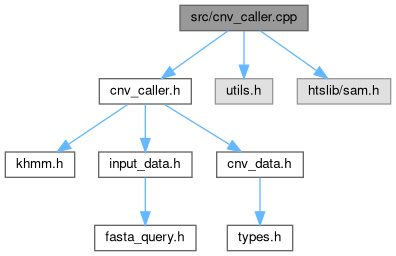
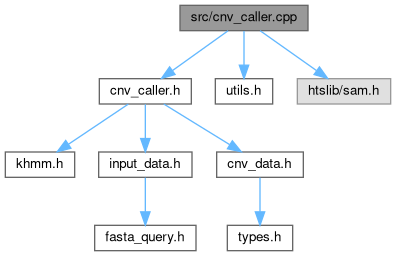
Update docs

Changed region(s): [[0.5455, 0.2812, 0.697, 0.4375]]

diff --git a/files.html b/files.html
@@ -108,19 +108,20 @@ $(document).ready(function(){initNavTree('files.html',''); initResizable(); });
 <tr id="row_1_8_" class="even"><td class="entry"><span style="width:32px;display:inline-block;">&#160;</span><a href="sv__data_8h_source.html"><span class="icondoc"></span></a><a class="el" href="sv__data_8h.html" target="_self">sv_data.h</a></td><td class="desc"></td></tr>
 <tr id="row_1_9_" class="odd"><td class="entry"><span style="width:32px;display:inline-block;">&#160;</span><a href="swig__interface_8h_source.html"><span class="icondoc"></span></a><a class="el" href="swig__interface_8h.html" target="_self">swig_interface.h</a></td><td class="desc"></td></tr>
 <tr id="row_1_10_" class="even"><td class="entry"><span style="width:32px;display:inline-block;">&#160;</span><a href="types_8h_source.html"><span class="icondoc"></span></a><a class="el" href="types_8h.html" target="_self">types.h</a></td><td class="desc"></td></tr>
-<tr id="row_2_" class="odd"><td class="entry"><span style="width:0px;display:inline-block;">&#160;</span><span id="arr_2_" class="arrow" onclick="toggleFolder('2_')">&#9660;</span><span id="img_2_" class="iconfopen" onclick="toggleFolder('2_')">&#160;</span><a class="el" href="dir_68267d1309a1af8e8297ef4c3efbcdba.html" target="_self">src</a></td><td class="desc"></td></tr>
-<tr id="row_2_0_" class="even"><td class="entry"><span style="width:32px;display:inline-block;">&#160;</span><span class="icondoc"></span><a class="el" href="cnv__caller_8cpp.html" target="_self">cnv_caller.cpp</a></td><td class="desc"></td></tr>
-<tr id="row_2_1_" class="odd"><td class="entry"><span style="width:32px;display:inline-block;">&#160;</span><span class="icondoc"></span><a class="el" href="cnv__data_8cpp.html" target="_self">cnv_data.cpp</a></td><td class="desc"></td></tr>
-<tr id="row_2_2_" class="even"><td class="entry"><span style="width:32px;display:inline-block;">&#160;</span><span class="icondoc"></span><a class="el" href="contextsv_8cpp.html" target="_self">contextsv.cpp</a></td><td class="desc"></td></tr>
-<tr id="row_2_3_" class="odd"><td class="entry"><span style="width:32px;display:inline-block;">&#160;</span><span class="icondoc"></span><a class="el" href="fasta__query_8cpp.html" target="_self">fasta_query.cpp</a></td><td class="desc"></td></tr>
-<tr id="row_2_4_" class="even"><td class="entry"><span style="width:32px;display:inline-block;">&#160;</span><span class="icondoc"></span><a class="el" href="input__data_8cpp.html" target="_self">input_data.cpp</a></td><td class="desc"></td></tr>
-<tr id="row_2_5_" class="odd"><td class="entry"><span style="width:32px;display:inline-block;">&#160;</span><span class="icondoc"></span><a class="el" href="kc_8cpp.html" target="_self">kc.cpp</a></td><td class="desc"></td></tr>
-<tr id="row_2_6_" class="even"><td class="entry"><span style="width:32px;display:inline-block;">&#160;</span><span class="icondoc"></span><a class="el" href="khmm_8cpp.html" target="_self">khmm.cpp</a></td><td class="desc"></td></tr>
-<tr id="row_2_7_" class="odd"><td class="entry"><span style="width:32px;display:inline-block;">&#160;</span><span class="icondoc"></span><a class="el" href="sv__caller_8cpp.html" target="_self">sv_caller.cpp</a></td><td class="desc"></td></tr>
-<tr id="row_2_8_" class="even"><td class="entry"><span style="width:32px;display:inline-block;">&#160;</span><span class="icondoc"></span><a class="el" href="sv__data_8cpp.html" target="_self">sv_data.cpp</a></td><td class="desc"></td></tr>
-<tr id="row_2_9_" class="odd"><td class="entry"><span style="width:32px;display:inline-block;">&#160;</span><span class="icondoc"></span><a class="el" href="swig__interface_8cpp.html" target="_self">swig_interface.cpp</a></td><td class="desc"></td></tr>
-<tr id="row_2_10_" class="even"><td class="entry"><span style="width:32px;display:inline-block;">&#160;</span><span class="icondoc"></span><a class="el" href="swig__wrapper_8cpp.html" target="_self">swig_wrapper.cpp</a></td><td class="desc"></td></tr>
-<tr id="row_2_11_" class="odd"><td class="entry"><span style="width:32px;display:inline-block;">&#160;</span><span class="icondoc"></span><a class="el" href="utils_8cpp.html" target="_self">utils.cpp</a></td><td class="desc"></td></tr>
+<tr id="row_1_11_" class="odd"><td class="entry"><span style="width:32px;display:inline-block;">&#160;</span><a href="utils_8h_source.html"><span class="icondoc"></span></a><a class="el" href="utils_8h.html" target="_self">utils.h</a></td><td class="desc"></td></tr>
+<tr id="row_2_" class="even"><td class="entry"><span style="width:0px;display:inline-block;">&#160;</span><span id="arr_2_" class="arrow" onclick="toggleFolder('2_')">&#9660;</span><span id="img_2_" class="iconfopen" onclick="toggleFolder('2_')">&#160;</span><a class="el" href="dir_68267d1309a1af8e8297ef4c3efbcdba.html" target="_self">src</a></td><td class="desc"></td></tr>
+<tr id="row_2_0_" class="odd"><td class="entry"><span style="width:32px;display:inline-block;">&#160;</span><span class="icondoc"></span><a class="el" href="cnv__caller_8cpp.html" target="_self">cnv_caller.cpp</a></td><td class="desc"></td></tr>
+<tr id="row_2_1_" class="even"><td class="entry"><span style="width:32px;display:inline-block;">&#160;</span><span class="icondoc"></span><a class="el" href="cnv__data_8cpp.html" target="_self">cnv_data.cpp</a></td><td class="desc"></td></tr>
+<tr id="row_2_2_" class="odd"><td class="entry"><span style="width:32px;display:inline-block;">&#160;</span><span class="icondoc"></span><a class="el" href="contextsv_8cpp.html" target="_self">contextsv.cpp</a></td><td class="desc"></td></tr>
+<tr id="row_2_3_" class="even"><td class="entry"><span style="width:32px;display:inline-block;">&#160;</span><span class="icondoc"></span><a class="el" href="fasta__query_8cpp.html" target="_self">fasta_query.cpp</a></td><td class="desc"></td></tr>
+<tr id="row_2_4_" class="odd"><td class="entry"><span style="width:32px;display:inline-block;">&#160;</span><span class="icondoc"></span><a class="el" href="input__data_8cpp.html" target="_self">input_data.cpp</a></td><td class="desc"></td></tr>
+<tr id="row_2_5_" class="even"><td class="entry"><span style="width:32px;display:inline-block;">&#160;</span><span class="icondoc"></span><a class="el" href="kc_8cpp.html" target="_self">kc.cpp</a></td><td class="desc"></td></tr>
+<tr id="row_2_6_" class="odd"><td class="entry"><span style="width:32px;display:inline-block;">&#160;</span><span class="icondoc"></span><a class="el" href="khmm_8cpp.html" target="_self">khmm.cpp</a></td><td class="desc"></td></tr>
+<tr id="row_2_7_" class="even"><td class="entry"><span style="width:32px;display:inline-block;">&#160;</span><span class="icondoc"></span><a class="el" href="sv__caller_8cpp.html" target="_self">sv_caller.cpp</a></td><td class="desc"></td></tr>
+<tr id="row_2_8_" class="odd"><td class="entry"><span style="width:32px;display:inline-block;">&#160;</span><span class="icondoc"></span><a class="el" href="sv__data_8cpp.html" target="_self">sv_data.cpp</a></td><td class="desc"></td></tr>
+<tr id="row_2_9_" class="even"><td class="entry"><span style="width:32px;display:inline-block;">&#160;</span><span class="icondoc"></span><a class="el" href="swig__interface_8cpp.html" target="_self">swig_interface.cpp</a></td><td class="desc"></td></tr>
+<tr id="row_2_10_" class="odd"><td class="entry"><span style="width:32px;display:inline-block;">&#160;</span><span class="icondoc"></span><a class="el" href="swig__wrapper_8cpp.html" target="_self">swig_wrapper.cpp</a></td><td class="desc"></td></tr>
+<tr id="row_2_11_" class="even"><td class="entry"><span style="width:32px;display:inline-block;">&#160;</span><span class="icondoc"></span><a class="el" href="utils_8cpp.html" target="_self">utils.cpp</a></td><td class="desc"></td></tr>
 </table>
 </div><!-- directory -->
 </div><!-- contents -->

diff --git a/dir_000002_000001.html b/dir_000002_000001.html
@@ -90,7 +90,7 @@ $(document).ready(function(){initNavTree('dir_68267d1309a1af8e8297ef4c3efbcdba.h
 </div>
 
 <div class="contents">
-<h3>src &rarr; include Relation</h3><table class="dirtab"><tr class="dirtab"><th class="dirtab">File in src</th><th class="dirtab">Includes file in include</th></tr><tr class="dirtab"><td class="dirtab"><a class="el" href="cnv__caller_8cpp.html">cnv_caller.cpp</a></td><td class="dirtab"><a class="el" href="cnv__caller_8h.html">cnv_caller.h</a></td></tr><tr class="dirtab"><td class="dirtab"><a class="el" href="cnv__data_8cpp.html">cnv_data.cpp</a></td><td class="dirtab"><a class="el" href="cnv__data_8h.html">cnv_data.h</a></td></tr><tr class="dirtab"><td class="dirtab"><a class="el" href="contextsv_8cpp.html">contextsv.cpp</a></td><td class="dirtab"><a class="el" href="cnv__caller_8h.html">cnv_caller.h</a></td></tr><tr class="dirtab"><td class="dirtab"><a class="el" href="contextsv_8cpp.html">contextsv.cpp</a></td><td class="dirtab"><a class="el" href="contextsv_8h.html">contextsv.h</a></td></tr><tr class="dirtab"><td class="dirtab"><a class="el" href="contextsv_8cpp.html">contextsv.cpp</a></td><td class="dirtab"><a class="el" href="sv__caller_8h.html">sv_caller.h</a></td></tr><tr class="dirtab"><td class="dirtab"><a class="el" href="fasta__query_8cpp.html">fasta_query.cpp</a></td><td class="dirtab"><a class="el" href="fasta__query_8h.html">fasta_query.h</a></td></tr><tr class="dirtab"><td class="dirtab"><a class="el" href="input__data_8cpp.html">input_data.cpp</a></td><td class="dirtab"><a class="el" href="input__data_8h.html">input_data.h</a></td></tr><tr class="dirtab"><td class="dirtab"><a class="el" href="kc_8cpp.html">kc.cpp</a></td><td class="dirtab"><a class="el" href="kc_8h.html">kc.h</a></td></tr><tr class="dirtab"><td class="dirtab"><a class="el" href="khmm_8cpp.html">khmm.cpp</a></td><td class="dirtab"><a class="el" href="kc_8h.html">kc.h</a></td></tr><tr class="dirtab"><td class="dirtab"><a class="el" href="khmm_8cpp.html">khmm.cpp</a></td><td class="dirtab"><a class="el" href="khmm_8h.html">khmm.h</a></td></tr><tr class="dirtab"><td class="dirtab"><a class="el" href="sv__caller_8cpp.html">sv_caller.cpp</a></td><td class="dirtab"><a class="el" href="sv__caller_8h.html">sv_caller.h</a></td></tr><tr class="dirtab"><td class="dirtab"><a class="el" href="sv__data_8cpp.html">sv_data.cpp</a></td><td class="dirtab"><a class="el" href="sv__data_8h.html">sv_data.h</a></td></tr><tr class="dirtab"><td class="dirtab"><a class="el" href="swig__interface_8cpp.html">swig_interface.cpp</a></td><td class="dirtab"><a class="el" href="contextsv_8h.html">contextsv.h</a></td></tr><tr class="dirtab"><td class="dirtab"><a class="el" href="swig__interface_8cpp.html">swig_interface.cpp</a></td><td class="dirtab"><a class="el" href="swig__interface_8h.html">swig_interface.h</a></td></tr><tr class="dirtab"><td class="dirtab"><a class="el" href="swig__wrapper_8cpp.html">swig_wrapper.cpp</a></td><td class="dirtab"><a class="el" href="swig__interface_8h.html">swig_interface.h</a></td></tr></table></div><!-- contents -->
+<h3>src &rarr; include Relation</h3><table class="dirtab"><tr class="dirtab"><th class="dirtab">File in src</th><th class="dirtab">Includes file in include</th></tr><tr class="dirtab"><td class="dirtab"><a class="el" href="cnv__caller_8cpp.html">cnv_caller.cpp</a></td><td class="dirtab"><a class="el" href="cnv__caller_8h.html">cnv_caller.h</a></td></tr><tr class="dirtab"><td class="dirtab"><a class="el" href="cnv__caller_8cpp.html">cnv_caller.cpp</a></td><td class="dirtab"><a class="el" href="utils_8h.html">utils.h</a></td></tr><tr class="dirtab"><td class="dirtab"><a class="el" href="cnv__data_8cpp.html">cnv_data.cpp</a></td><td class="dirtab"><a class="el" href="cnv__data_8h.html">cnv_data.h</a></td></tr><tr class="dirtab"><td class="dirtab"><a class="el" href="contextsv_8cpp.html">contextsv.cpp</a></td><td class="dirtab"><a class="el" href="cnv__caller_8h.html">cnv_caller.h</a></td></tr><tr class="dirtab"><td class="dirtab"><a class="el" href="contextsv_8cpp.html">contextsv.cpp</a></td><td class="dirtab"><a class="el" href="contextsv_8h.html">contextsv.h</a></td></tr><tr class="dirtab"><td class="dirtab"><a class="el" href="contextsv_8cpp.html">contextsv.cpp</a></td><td class="dirtab"><a class="el" href="sv__caller_8h.html">sv_caller.h</a></td></tr><tr class="dirtab"><td class="dirtab"><a class="el" href="fasta__query_8cpp.html">fasta_query.cpp</a></td><td class="dirtab"><a class="el" href="fasta__query_8h.html">fasta_query.h</a></td></tr><tr class="dirtab"><td class="dirtab"><a class="el" href="input__data_8cpp.html">input_data.cpp</a></td><td class="dirtab"><a class="el" href="input__data_8h.html">input_data.h</a></td></tr><tr class="dirtab"><td class="dirtab"><a class="el" href="kc_8cpp.html">kc.cpp</a></td><td class="dirtab"><a class="el" href="kc_8h.html">kc.h</a></td></tr><tr class="dirtab"><td class="dirtab"><a class="el" href="khmm_8cpp.html">khmm.cpp</a></td><td class="dirtab"><a class="el" href="kc_8h.html">kc.h</a></td></tr><tr class="dirtab"><td class="dirtab"><a class="el" href="khmm_8cpp.html">khmm.cpp</a></td><td class="dirtab"><a class="el" href="khmm_8h.html">khmm.h</a></td></tr><tr class="dirtab"><td class="dirtab"><a class="el" href="sv__caller_8cpp.html">sv_caller.cpp</a></td><td class="dirtab"><a class="el" href="sv__caller_8h.html">sv_caller.h</a></td></tr><tr class="dirtab"><td class="dirtab"><a class="el" href="sv__data_8cpp.html">sv_data.cpp</a></td><td class="dirtab"><a class="el" href="sv__data_8h.html">sv_data.h</a></td></tr><tr class="dirtab"><td class="dirtab"><a class="el" href="swig__interface_8cpp.html">swig_interface.cpp</a></td><td class="dirtab"><a class="el" href="contextsv_8h.html">contextsv.h</a></td></tr><tr class="dirtab"><td class="dirtab"><a class="el" href="swig__interface_8cpp.html">swig_interface.cpp</a></td><td class="dirtab"><a class="el" href="swig__interface_8h.html">swig_interface.h</a></td></tr><tr class="dirtab"><td class="dirtab"><a class="el" href="swig__wrapper_8cpp.html">swig_wrapper.cpp</a></td><td class="dirtab"><a class="el" href="swig__interface_8h.html">swig_interface.h</a></td></tr><tr class="dirtab"><td class="dirtab"><a class="el" href="utils_8cpp.html">utils.cpp</a></td><td class="dirtab"><a class="el" href="utils_8h.html">utils.h</a></td></tr></table></div><!-- contents -->
 </div><!-- doc-content -->
 <!-- start footer part -->
 <div id="nav-path" class="navpath"><!-- id is needed for treeview function! -->

diff --git a/search/all_e.js b/search/all_e.js
@@ -12,11 +12,11 @@ var searchData=
   ['prev_9',['prev',['../structswig__cast__info.html#afc685bcf38a5a06c6601775138c5999c',1,'swig_cast_info']]],
   ['print_5fmatrix_10',['print_matrix',['../kc_8h.html#ab63511006258ab28c09d3f4825e1a863',1,'print_matrix(double **A, int m, int n):&#160;kc.cpp'],['../kc_8cpp.html#ab63511006258ab28c09d3f4825e1a863',1,'print_matrix(double **A, int m, int n):&#160;kc.cpp']]],
   ['print_5fmatrixi_11',['print_matrixi',['../kc_8h.html#ad4f0e377e6998c4aeb731b82e3c55fb4',1,'print_matrixi(int **A, int m, int n):&#160;kc.cpp'],['../kc_8cpp.html#ad4f0e377e6998c4aeb731b82e3c55fb4',1,'print_matrixi(int **A, int m, int n):&#160;kc.cpp']]],
-  ['print_5fvector_12',['print_vector',['../kc_8h.html#a05e1b2a77c22ae4e595c1c9078f186b2',1,'print_vector(double *array, int n):&#160;kc.cpp'],['../kc_8cpp.html#a05e1b2a77c22ae4e595c1c9078f186b2',1,'print_vector(double *array, int n):&#160;kc.cpp']]],
-  ['print_5fvectori_13',['print_vectori',['../kc_8h.html#a8a8ffc38946e016056d176c4a5bc672c',1,'print_vectori(int *array, int n):&#160;kc.cpp'],['../kc_8cpp.html#a8a8ffc38946e016056d176c4a5bc672c',1,'print_vectori(int *array, int n):&#160;kc.cpp']]],
+  ['print_5fvector_12',['print_vector',['../kc_8cpp.html#a05e1b2a77c22ae4e595c1c9078f186b2',1,'print_vector(double *array, int n):&#160;kc.cpp'],['../kc_8h.html#a05e1b2a77c22ae4e595c1c9078f186b2',1,'print_vector(double *array, int n):&#160;kc.cpp']]],
+  ['print_5fvectori_13',['print_vectori',['../kc_8cpp.html#a8a8ffc38946e016056d176c4a5bc672c',1,'print_vectori(int *array, int n):&#160;kc.cpp'],['../kc_8h.html#a8a8ffc38946e016056d176c4a5bc672c',1,'print_vectori(int *array, int n):&#160;kc.cpp']]],
   ['printchmm_14',['PrintCHMM',['../khmm_8h.html#ab48b68300b34a8e1875bd0c89a81175b',1,'khmm.h']]],
-  ['printprogress_15',['printProgress',['../utils_8cpp.html#a94bd78faf212464ede8144a4be0e8cf8',1,'utils.cpp']]],
-  ['probks_16',['probks',['../kc_8cpp.html#a143f0d120ce98a745cf55be12076967a',1,'probks(double alam):&#160;kc.cpp'],['../kc_8h.html#a143f0d120ce98a745cf55be12076967a',1,'probks(double alam):&#160;kc.cpp']]],
+  ['printprogress_15',['printprogress',['../utils_8h.html#a94bd78faf212464ede8144a4be0e8cf8',1,'printProgress(int progress, int total):&#160;utils.cpp'],['../utils_8cpp.html#a94bd78faf212464ede8144a4be0e8cf8',1,'printProgress(int progress, int total):&#160;utils.cpp']]],
+  ['probks_16',['probks',['../kc_8h.html#a143f0d120ce98a745cf55be12076967a',1,'probks(double alam):&#160;kc.cpp'],['../kc_8cpp.html#a143f0d120ce98a745cf55be12076967a',1,'probks(double alam):&#160;kc.cpp']]],
   ['project_20overview_17',['Project Overview',['../md_docs_2project-overview.html',1,'']]],
   ['project_20structure_18',['Project structure',['../md_docs_2project-overview.html#autotoc_md4',1,'']]],
   ['project_2doverview_2emd_19',['project-overview.md',['../project-overview_8md.html',1,'']]],

diff --git a/utils_8h_source.html b/utils_8h_source.html
@@ -103,12 +103,11 @@ $(document).ready(function(){initNavTree('utils_8h_source.html',''); initResizab
 <div class="line"><a id="l00003" name="l00003"></a><span class="lineno">    3</span><span class="preprocessor">#ifndef UTILS_H</span></div>
 <div class="line"><a id="l00004" name="l00004"></a><span class="lineno">    4</span><span class="preprocessor">#define UTILS_H</span></div>
 <div class="line"><a id="l00005" name="l00005"></a><span class="lineno">    5</span> </div>
-<div class="line"><a id="l00006" name="l00006"></a><span class="lineno">    6</span><span class="preprocessor">#include &lt;string&gt;</span></div>
-<div class="line"><a id="l00007" name="l00007"></a><span class="lineno">    7</span> </div>
-<div class="line"><a id="l00008" name="l00008"></a><span class="lineno">    8</span><span class="comment">// Print the progress of a task</span></div>
-<div class="line"><a id="l00009" name="l00009"></a><span class="lineno">    9</span><span class="keywordtype">void</span> <a class="code hl_function" href="utils_8h.html#a94bd78faf212464ede8144a4be0e8cf8">printProgress</a>(<span class="keywordtype">int</span> progress, <span class="keywordtype">int</span> total);</div>
-<div class="line"><a id="l00010" name="l00010"></a><span class="lineno">   10</span> </div>
-<div class="line"><a id="l00011" name="l00011"></a><span class="lineno">   11</span><span class="preprocessor">#endif </span><span class="comment">// UTILS_H</span></div>
+<div class="line"><a id="l00006" name="l00006"></a><span class="lineno">    6</span> </div>
+<div class="line"><a id="l00007" name="l00007"></a><span class="lineno">    7</span><span class="comment">// Print the progress of a task</span></div>
+<div class="line"><a id="l00008" name="l00008"></a><span class="lineno">    8</span><span class="keywordtype">void</span> <a class="code hl_function" href="utils_8h.html#a94bd78faf212464ede8144a4be0e8cf8">printProgress</a>(<span class="keywordtype">int</span> progress, <span class="keywordtype">int</span> total);</div>
+<div class="line"><a id="l00009" name="l00009"></a><span class="lineno">    9</span> </div>
+<div class="line"><a id="l00010" name="l00010"></a><span class="lineno">   10</span><span class="preprocessor">#endif </span><span class="comment">// UTILS_H</span></div>
 <div class="ttc" id="autils_8h_html_a94bd78faf212464ede8144a4be0e8cf8"><div class="ttname"><a href="utils_8h.html#a94bd78faf212464ede8144a4be0e8cf8">printProgress</a></div><div class="ttdeci">void printProgress(int progress, int total)</div><div class="ttdef"><b>Definition</b> utils.cpp:10</div></div>
 </div><!-- fragment --></div><!-- contents -->
 </div><!-- doc-content -->

diff --git a/navtreeindex0.js b/navtreeindex0.js
@@ -83,22 +83,22 @@ var NAVTREEINDEX0 =
 "classes.html":[2,1],
 "classswig_1_1_swig_ptr___py_object.html":[1,0,0,0],
 "classswig_1_1_swig_ptr___py_object.html":[2,0,0,0],
-"classswig_1_1_swig_ptr___py_object.html#a0c495ce3409b105433b4347ce18fa964":[1,0,0,0,6],
 "classswig_1_1_swig_ptr___py_object.html#a0c495ce3409b105433b4347ce18fa964":[2,0,0,0,6],
+"classswig_1_1_swig_ptr___py_object.html#a0c495ce3409b105433b4347ce18fa964":[1,0,0,0,6],
 "classswig_1_1_swig_ptr___py_object.html#a3f2d2edd8a4eda4bf8a1243e50aa3849":[1,0,0,0,3],
 "classswig_1_1_swig_ptr___py_object.html#a3f2d2edd8a4eda4bf8a1243e50aa3849":[2,0,0,0,3],
 "classswig_1_1_swig_ptr___py_object.html#a41bd12c5ef663af39a56236918f2002e":[1,0,0,0,5],
 "classswig_1_1_swig_ptr___py_object.html#a41bd12c5ef663af39a56236918f2002e":[2,0,0,0,5],
 "classswig_1_1_swig_ptr___py_object.html#a4282f20207f8cd22c9b079203c832a04":[1,0,0,0,1],
 "classswig_1_1_swig_ptr___py_object.html#a4282f20207f8cd22c9b079203c832a04":[2,0,0,0,1],
-"classswig_1_1_swig_ptr___py_object.html#a4503d58d577d209f5e1fa67026852505":[2,0,0,0,2],
 "classswig_1_1_swig_ptr___py_object.html#a4503d58d577d209f5e1fa67026852505":[1,0,0,0,2],
-"classswig_1_1_swig_ptr___py_object.html#a488cefbaa1b44892dca63570d463f926":[2,0,0,0,4],
+"classswig_1_1_swig_ptr___py_object.html#a4503d58d577d209f5e1fa67026852505":[2,0,0,0,2],
 "classswig_1_1_swig_ptr___py_object.html#a488cefbaa1b44892dca63570d463f926":[1,0,0,0,4],
-"classswig_1_1_swig_ptr___py_object.html#abf8e6dbea1c465582b210f732034b3ab":[2,0,0,0,0],
+"classswig_1_1_swig_ptr___py_object.html#a488cefbaa1b44892dca63570d463f926":[2,0,0,0,4],
 "classswig_1_1_swig_ptr___py_object.html#abf8e6dbea1c465582b210f732034b3ab":[1,0,0,0,0],
-"classswig_1_1_swig_ptr___py_object.html#ae617c5726496db423cd19688e3264618":[2,0,0,0,7],
+"classswig_1_1_swig_ptr___py_object.html#abf8e6dbea1c465582b210f732034b3ab":[2,0,0,0,0],
 "classswig_1_1_swig_ptr___py_object.html#ae617c5726496db423cd19688e3264618":[1,0,0,0,7],
+"classswig_1_1_swig_ptr___py_object.html#ae617c5726496db423cd19688e3264618":[2,0,0,0,7],
 "cnv__caller_8cpp.html":[3,0,2,0],
 "cnv__caller_8h.html":[3,0,1,0],
 "cnv__caller_8h_source.html":[3,0,1,0],
@@ -127,8 +127,8 @@ var NAVTREEINDEX0 =
 "globals_defs.html":[3,1,3],
 "globals_e.html":[3,1,0,5],
 "globals_f.html":[3,1,0,6],
-"globals_func.html":[3,1,1],
 "globals_func.html":[3,1,1,0],
+"globals_func.html":[3,1,1],
 "globals_func_a.html":[3,1,1,1],
 "globals_func_b.html":[3,1,1,2],
 "globals_func_c.html":[3,1,1,3],

diff --git a/utils_8cpp.html b/utils_8cpp.html
@@ -95,24 +95,15 @@ $(document).ready(function(){initNavTree('utils_8cpp.html',''); initResizable();
   <div class="headertitle"><div class="title">utils.cpp File Reference</div></div>
 </div><!--header-->
 <div class="contents">
-<div class="textblock"><code>#include &quot;utils.h&quot;</code><br />
-<code>#include &lt;stdio.h&gt;</code><br />
-<code>#include &lt;string.h&gt;</code><br />
-<code>#include &lt;iostream&gt;</code><br />
+<div class="textblock"><code>#include &quot;<a class="el" href="utils_8h_source.html">utils.h</a>&quot;</code><br />
 </div><div class="textblock"><div class="dynheader">
 Include dependency graph for utils.cpp:</div>
 <div class="dyncontent">
 <div class="center"><img src="utils_8cpp__incl.png" border="0" usemap="#asrc_2utils_8cpp" alt=""/></div>
 <map name="asrc_2utils_8cpp" id="asrc_2utils_8cpp">
-<area shape="rect" title=" " alt="" coords="115,5,209,31"/>
-<area shape="rect" title=" " alt="" coords="5,79,63,104"/>
-<area shape="poly" title=" " alt="" coords="143,33,68,74,66,69,140,28"/>
-<area shape="rect" title=" " alt="" coords="87,79,149,104"/>
-<area shape="poly" title=" " alt="" coords="157,32,135,68,130,66,152,30"/>
-<area shape="rect" title=" " alt="" coords="173,79,239,104"/>
-<area shape="poly" title=" " alt="" coords="172,30,194,66,189,68,167,32"/>
-<area shape="rect" title=" " alt="" coords="263,79,335,104"/>
-<area shape="poly" title=" " alt="" coords="185,28,266,70,264,75,183,33"/>
+<area shape="rect" title=" " alt="" coords="5,5,99,31"/>
+<area shape="rect" href="utils_8h.html" title=" " alt="" coords="23,79,81,104"/>
+<area shape="poly" title=" " alt="" coords="55,31,55,65,49,65,49,31"/>
 </map>
 </div>
 </div><table class="memberdecls">

diff --git a/search/functions_e.js b/search/functions_e.js
@@ -12,7 +12,7 @@ var searchData=
   ['print_5fvector_9',['print_vector',['../kc_8h.html#a05e1b2a77c22ae4e595c1c9078f186b2',1,'print_vector(double *array, int n):&#160;kc.cpp'],['../kc_8cpp.html#a05e1b2a77c22ae4e595c1c9078f186b2',1,'print_vector(double *array, int n):&#160;kc.cpp']]],
   ['print_5fvectori_10',['print_vectori',['../kc_8h.html#a8a8ffc38946e016056d176c4a5bc672c',1,'print_vectori(int *array, int n):&#160;kc.cpp'],['../kc_8cpp.html#a8a8ffc38946e016056d176c4a5bc672c',1,'print_vectori(int *array, int n):&#160;kc.cpp']]],
   ['printchmm_11',['PrintCHMM',['../khmm_8h.html#ab48b68300b34a8e1875bd0c89a81175b',1,'khmm.h']]],
-  ['printprogress_12',['printProgress',['../utils_8cpp.html#a94bd78faf212464ede8144a4be0e8cf8',1,'utils.cpp']]],
+  ['printprogress_12',['printprogress',['../utils_8h.html#a94bd78faf212464ede8144a4be0e8cf8',1,'printProgress(int progress, int total):&#160;utils.cpp'],['../utils_8cpp.html#a94bd78faf212464ede8144a4be0e8cf8',1,'printProgress(int progress, int total):&#160;utils.cpp']]],
   ['probks_13',['probks',['../kc_8h.html#a143f0d120ce98a745cf55be12076967a',1,'probks(double alam):&#160;kc.cpp'],['../kc_8cpp.html#a143f0d120ce98a745cf55be12076967a',1,'probks(double alam):&#160;kc.cpp']]],
   ['pythag_14',['pythag',['../kc_8h.html#a7f43e2c062f2de6dbd14da6799d78030',1,'pythag(double a, double b):&#160;kc.cpp'],['../kc_8cpp.html#a7f43e2c062f2de6dbd14da6799d78030',1,'pythag(double a, double b):&#160;kc.cpp']]]
 ];

diff --git a/globals_p.html b/globals_p.html
@@ -106,7 +106,7 @@ $(document).ready(function(){initNavTree('globals_p.html',''); initResizable(); 
 <li>print_vector()&#160;:&#160;<a class="el" href="kc_8h.html#a05e1b2a77c22ae4e595c1c9078f186b2">kc.h</a>, <a class="el" href="kc_8cpp.html#a05e1b2a77c22ae4e595c1c9078f186b2">kc.cpp</a></li>
 <li>print_vectori()&#160;:&#160;<a class="el" href="kc_8h.html#a8a8ffc38946e016056d176c4a5bc672c">kc.h</a>, <a class="el" href="kc_8cpp.html#a8a8ffc38946e016056d176c4a5bc672c">kc.cpp</a></li>
 <li>PrintCHMM()&#160;:&#160;<a class="el" href="khmm_8h.html#ab48b68300b34a8e1875bd0c89a81175b">khmm.h</a></li>
-<li>printProgress()&#160;:&#160;<a class="el" href="utils_8cpp.html#a94bd78faf212464ede8144a4be0e8cf8">utils.cpp</a></li>
+<li>printProgress()&#160;:&#160;<a class="el" href="utils_8h.html#a94bd78faf212464ede8144a4be0e8cf8">utils.h</a>, <a class="el" href="utils_8cpp.html#a94bd78faf212464ede8144a4be0e8cf8">utils.cpp</a></li>
 <li>probks()&#160;:&#160;<a class="el" href="kc_8h.html#a143f0d120ce98a745cf55be12076967a">kc.h</a>, <a class="el" href="kc_8cpp.html#a143f0d120ce98a745cf55be12076967a">kc.cpp</a></li>
 <li>Py_hash_t&#160;:&#160;<a class="el" href="swig__wrapper_8cpp.html#a361689e69dc1560a9e9ee88193814ddd">swig_wrapper.cpp</a></li>
 <li>Py_TYPE&#160;:&#160;<a class="el" href="swig__wrapper_8cpp.html#afd489119bf6e3552bdaa6bc365e35e59">swig_wrapper.cpp</a></li>

diff --git a/globals_func_p.html b/globals_func_p.html
@@ -105,7 +105,7 @@ $(document).ready(function(){initNavTree('globals_func_p.html',''); initResizabl
 <li>print_vector()&#160;:&#160;<a class="el" href="kc_8h.html#a05e1b2a77c22ae4e595c1c9078f186b2">kc.h</a>, <a class="el" href="kc_8cpp.html#a05e1b2a77c22ae4e595c1c9078f186b2">kc.cpp</a></li>
 <li>print_vectori()&#160;:&#160;<a class="el" href="kc_8h.html#a8a8ffc38946e016056d176c4a5bc672c">kc.h</a>, <a class="el" href="kc_8cpp.html#a8a8ffc38946e016056d176c4a5bc672c">kc.cpp</a></li>
 <li>PrintCHMM()&#160;:&#160;<a class="el" href="khmm_8h.html#ab48b68300b34a8e1875bd0c89a81175b">khmm.h</a></li>
-<li>printProgress()&#160;:&#160;<a class="el" href="utils_8cpp.html#a94bd78faf212464ede8144a4be0e8cf8">utils.cpp</a></li>
+<li>printProgress()&#160;:&#160;<a class="el" href="utils_8h.html#a94bd78faf212464ede8144a4be0e8cf8">utils.h</a>, <a class="el" href="utils_8cpp.html#a94bd78faf212464ede8144a4be0e8cf8">utils.cpp</a></li>
 <li>probks()&#160;:&#160;<a class="el" href="kc_8h.html#a143f0d120ce98a745cf55be12076967a">kc.h</a>, <a class="el" href="kc_8cpp.html#a143f0d120ce98a745cf55be12076967a">kc.cpp</a></li>
 <li>pythag()&#160;:&#160;<a class="el" href="kc_8h.html#a7f43e2c062f2de6dbd14da6799d78030">kc.h</a>, <a class="el" href="kc_8cpp.html#a7f43e2c062f2de6dbd14da6799d78030">kc.cpp</a></li>
 </ul>

diff --git a/cnv__caller_8cpp.html b/cnv__caller_8cpp.html
@@ -94,7 +94,7 @@ $(document).ready(function(){initNavTree('cnv__caller_8cpp.html',''); initResiza
 </div><!--header-->
 <div class="contents">
 <div class="textblock"><code>#include &quot;<a class="el" href="cnv__caller_8h_source.html">cnv_caller.h</a>&quot;</code><br />
-<code>#include &quot;utils.h&quot;</code><br />
+<code>#include &quot;<a class="el" href="utils_8h_source.html">utils.h</a>&quot;</code><br />
 <code>#include &lt;htslib/sam.h&gt;</code><br />
 </div><div class="textblock"><div class="dynheader">
 Include dependency graph for cnv_caller.cpp:</div>
@@ -104,7 +104,7 @@ Include dependency graph for cnv_caller.cpp:</div>
 <area shape="rect" title=" " alt="" coords="180,5,308,31"/>
 <area shape="rect" href="cnv__caller_8h.html" title=" " alt="" coords="99,79,191,104"/>
 <area shape="poly" title=" " alt="" coords="230,33,174,73,171,68,227,29"/>
-<area shape="rect" title=" " alt="" coords="215,79,273,104"/>
+<area shape="rect" href="utils_8h.html" title=" " alt="" coords="215,79,273,104"/>
 <area shape="poly" title=" " alt="" coords="247,31,247,65,241,65,241,31"/>
 <area shape="rect" title=" " alt="" coords="297,79,391,104"/>
 <area shape="poly" title=" " alt="" coords="262,29,318,68,315,73,259,33"/>

diff --git a/utils_8h.html b/utils_8h.html
@@ -95,18 +95,7 @@ $(document).ready(function(){initNavTree('utils_8h.html',''); initResizable(); }
   <div class="headertitle"><div class="title">utils.h File Reference</div></div>
 </div><!--header-->
 <div class="contents">
-<div class="textblock"><code>#include &lt;string&gt;</code><br />
-</div><div class="textblock"><div class="dynheader">
-Include dependency graph for utils.h:</div>
-<div class="dyncontent">
-<div class="center"><img src="utils_8h__incl.png" border="0" usemap="#ainclude_2utils_8h" alt=""/></div>
-<map name="ainclude_2utils_8h" id="ainclude_2utils_8h">
-<area shape="rect" title=" " alt="" coords="5,5,108,31"/>
-<area shape="rect" title=" " alt="" coords="29,79,84,104"/>
-<area shape="poly" title=" " alt="" coords="59,31,59,65,54,65,54,31"/>
-</map>
-</div>
-</div><div class="textblock"><div class="dynheader">
+<div class="textblock"><div class="dynheader">
 This graph shows which files directly or indirectly include this file:</div>
 <div class="dyncontent">
 <div class="center"><img src="utils_8h__dep__incl.png" border="0" usemap="#ainclude_2utils_8hdep" alt=""/></div>

diff --git a/dir_d44c64559bbebec7f509842c48db8b23.html b/dir_d44c64559bbebec7f509842c48db8b23.html
@@ -118,6 +118,8 @@ Files</h2></td></tr>
 <tr class="separator:"><td class="memSeparator" colspan="2">&#160;</td></tr>
 <tr class="memitem:"><td class="memItemLeft" align="right" valign="top"><a href="types_8h_source.html"><span class="icondoc"></span></a>&#160;</td><td class="memItemRight" valign="bottom"><a class="el" href="types_8h.html">types.h</a></td></tr>
 <tr class="separator:"><td class="memSeparator" colspan="2">&#160;</td></tr>
+<tr class="memitem:"><td class="memItemLeft" align="right" valign="top"><a href="utils_8h_source.html"><span class="icondoc"></span></a>&#160;</td><td class="memItemRight" valign="bottom"><a class="el" href="utils_8h.html">utils.h</a></td></tr>
+<tr class="separator:"><td class="memSeparator" colspan="2">&#160;</td></tr>
 </table>
 </div><!-- contents -->
 </div><!-- doc-content -->
